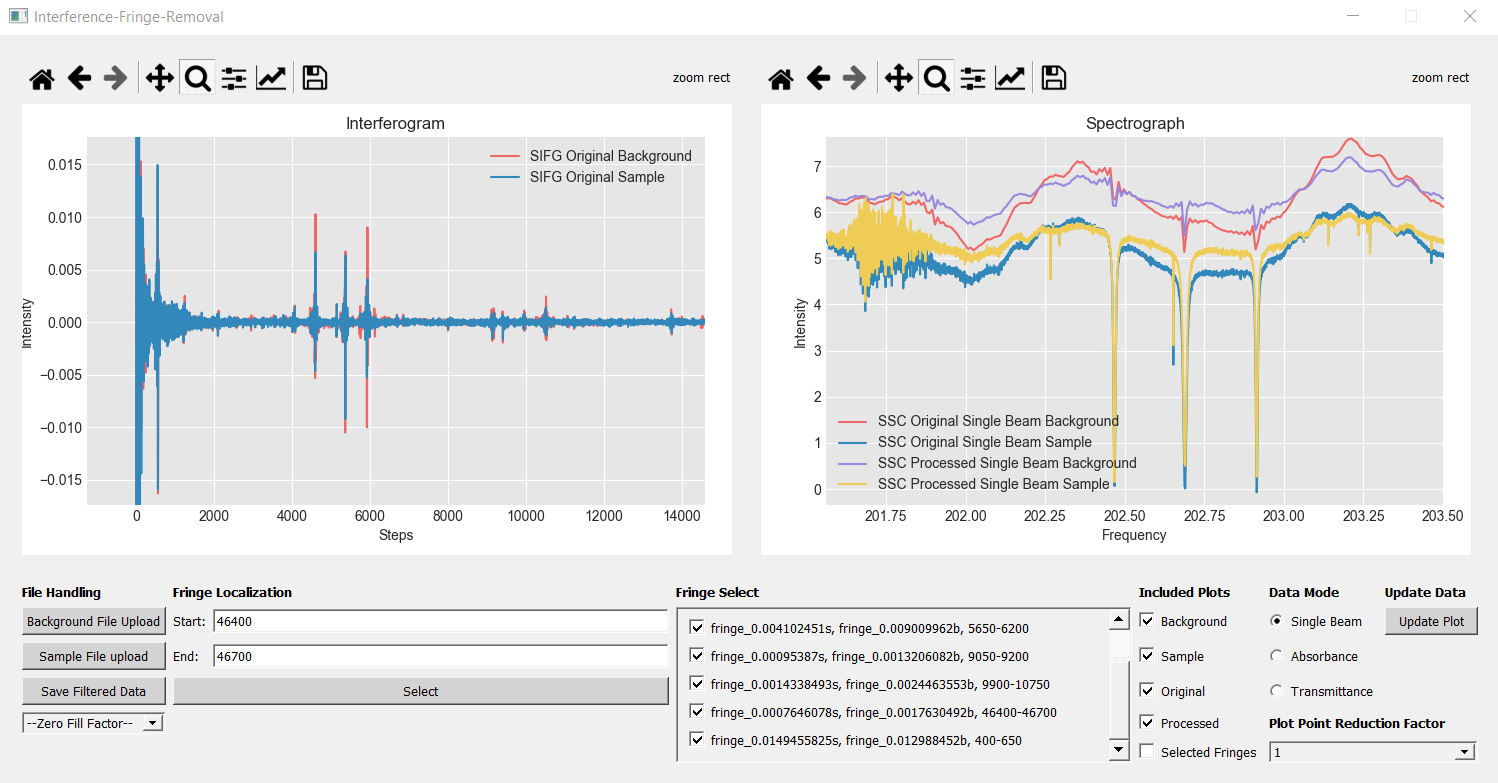
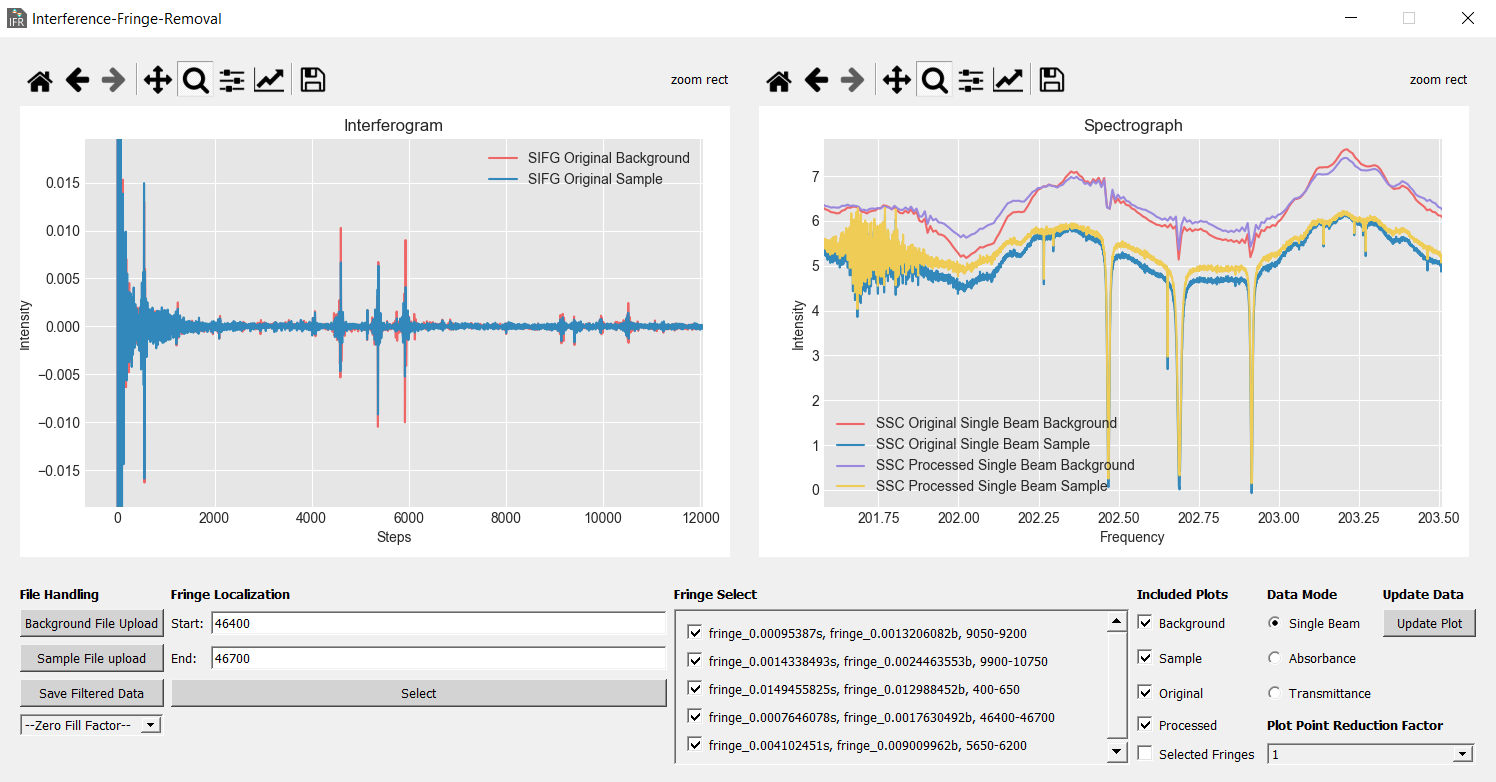
MAIN: Update UI display image.

diff --git a/IFR/ui.py b/IFR/ui.py
@@ -101,7 +101,7 @@ class UI(QMainWindow):
 
         super().__init__()
 
-        self.setWindowIcon(QIcon("figures/IFR_logo.png"))
+        self.setWindowIcon(QIcon("IFR/figures/IFR_logo.png"))
 
         self.setWindowTitle("Interference-Fringe-Removal")
         self.setFixedWidth(1500)
